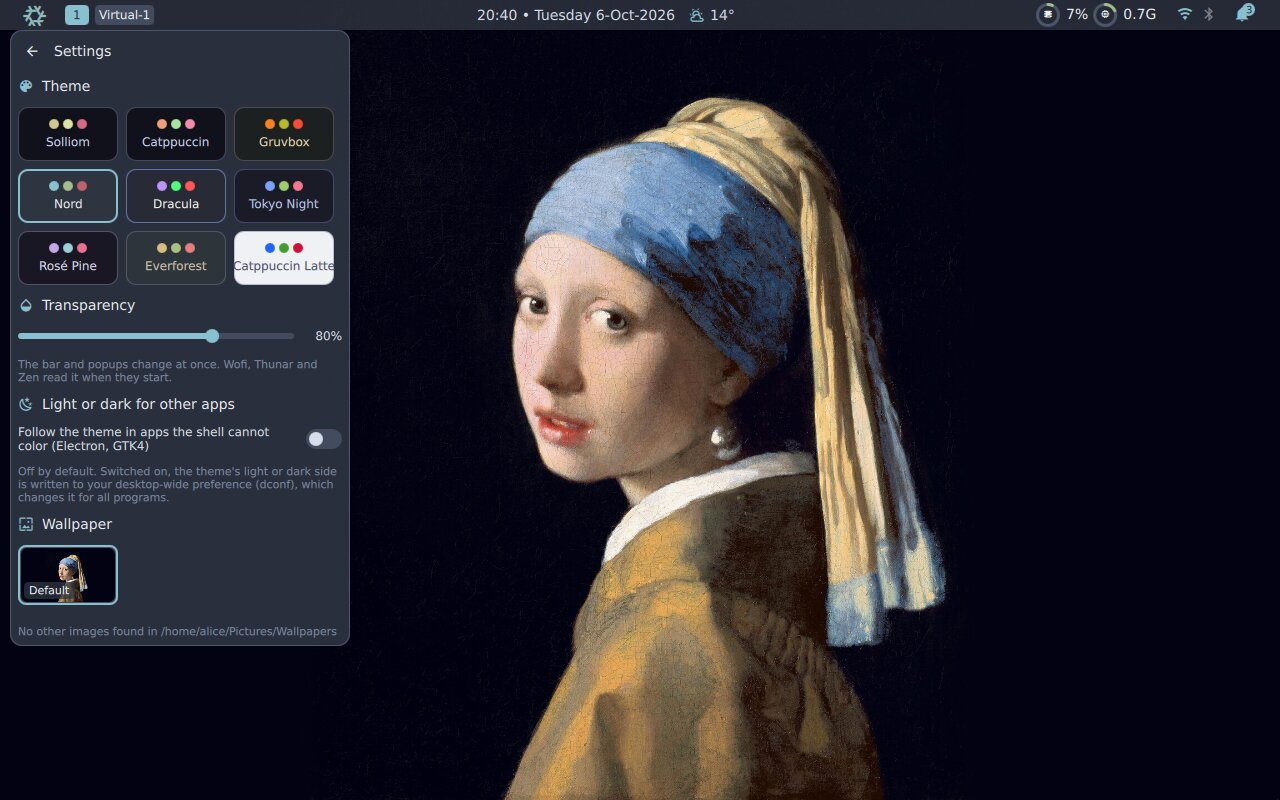
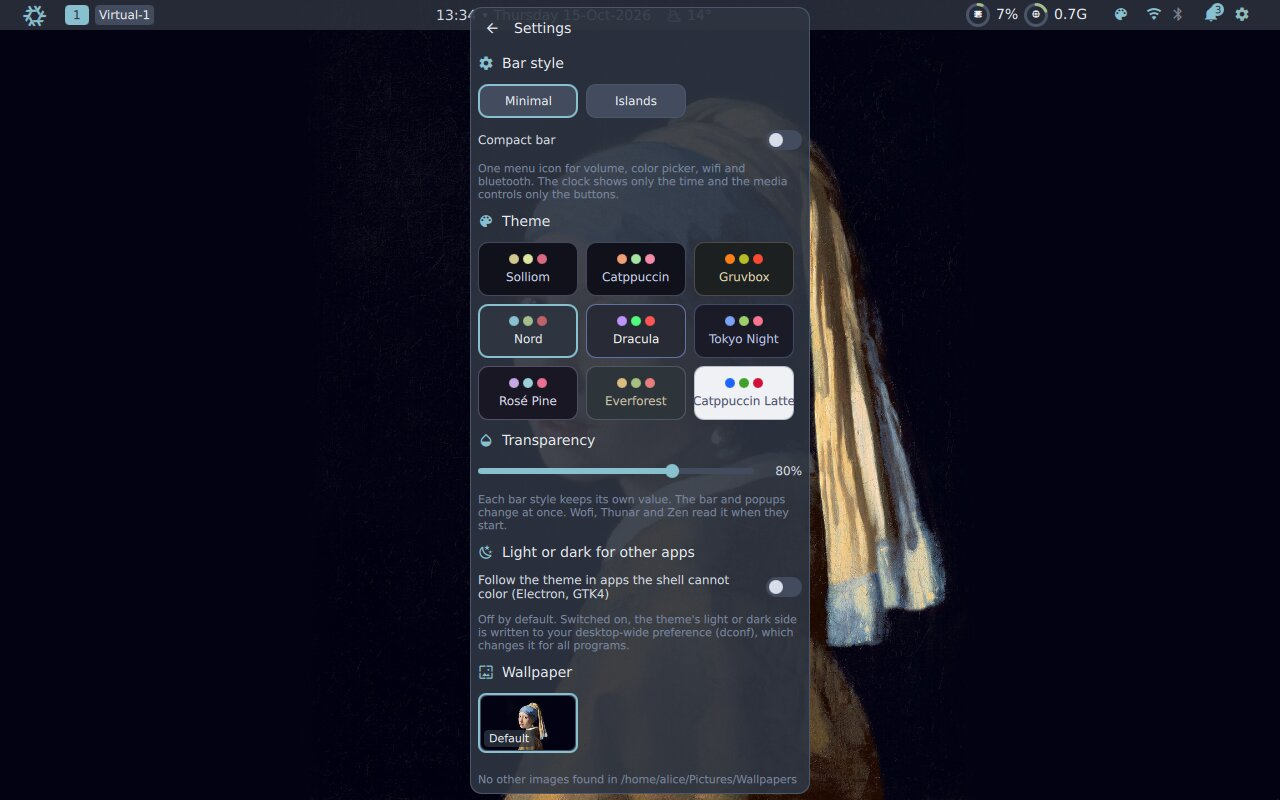
Show the bar styles and the compact bar in the README screenshots
The screenshot script clicked places of the old bar and the power menu's Settings row, so it
is updated: new click places, the settings window opened with its command, and new scenes for
the islands bar, the compact bar and its menu. The notifications (the README's first picture)
are shown on the compact islands bar. The script goes back to the minimal bar for the theme
pictures. The README describes the styles and the compact bar, and every picture that shows
the bar or the settings is taken again; the lock screen and login pictures are unchanged.

diff --git a/README.md b/README.md
@@ -1,6 +1,6 @@
 # sol-shell
 
-![sol-shell: the bar, notifications and the default wallpaper](docs/screenshots/hero.jpg)
+![sol-shell: the compact islands bar, notifications and the default wallpaper](docs/screenshots/hero.jpg)
 
 A desktop shell for [Hyprland](https://hyprland.org): a status bar with popups,
 notifications and a wallpaper on every monitor, built with
@@ -61,11 +61,21 @@ What you get, on every monitor:
 
 ## Screenshots
 
+Two bar styles, **minimal** (the strip along the top in the pictures below) and **islands** (rounded
+islands floating on a see-through bar), and a **compact** form of both. All three are picked in the
+settings window. Compact puts the volume ring, color picker, Wi-Fi and Bluetooth behind one menu icon
+(three dots), and shows only the time and, for the player, only its buttons. The first picture on this
+page is the islands bar in its compact form.
+
+| Islands: a popup hangs from its island | Compact: the menu behind the three dots |
+|---|---|
+| ![The islands bar with the calendar popup](docs/screenshots/islands.jpg) | ![The compact bar with its menu open](docs/screenshots/compact.jpg) |
+
 | Calendar and weather | Task manager |
 |---|---|
 | ![The calendar popup](docs/screenshots/calendar.jpg) | ![The task manager popup](docs/screenshots/task-manager.jpg) |
-| **Wi-Fi and Bluetooth** | **Settings** |
-| ![The Wi-Fi and Bluetooth popup](docs/screenshots/network.jpg) | ![The settings page](docs/screenshots/settings.jpg) |
+| **Wi-Fi** | **Settings** |
+| ![The Wi-Fi popup](docs/screenshots/network.jpg) | ![The settings window](docs/screenshots/settings.jpg) |
 
 The lock screen and the login screen share one look:
 
@@ -73,7 +83,7 @@ The lock screen and the login screen share one look:
 |---|---|
 | ![The lock screen](docs/screenshots/lock.jpg) | ![The login screen](docs/screenshots/login.jpg) |
 
-Three of the nine themes (Gruvbox, Nord and the light Catppuccin Latte), picked in the settings page:
+Three of the nine themes (Gruvbox, Nord and the light Catppuccin Latte), picked in the settings window:
 
 | Gruvbox | Nord | Catppuccin Latte |
 |---|---|---|
@@ -81,7 +91,8 @@ Three of the nine themes (Gruvbox, Nord and the light Catppuccin Latte), picked 
 
 The pictures are taken in a virtual machine by `nix build .#screenshots`, so they show no
 personal data. The weather is a made-up forecast served inside the machine, which has no
-internet.
+internet, and no audio, Wi-Fi, Bluetooth or media player either: so the pictures show no volume
+ring and no player controls, and the Wi-Fi and Bluetooth popups are empty.
 
 ## Requirements
 
